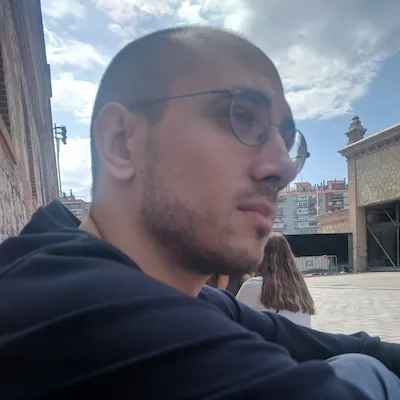
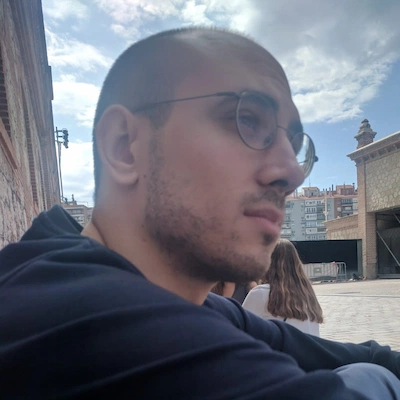
refactor: redesign, quality of image increased and open graph image added

diff --git a/public/dist.css b/public/dist.css
@@ -1,1 +1,1 @@
-/*! tailwindcss v3.2.4 | MIT License | https://tailwindcss.com*/*,:after,:before{border:0 solid #e5e7eb;box-sizing:border-box}:after,:before{--tw-content:""}html{-webkit-text-size-adjust:100%;font-feature-settings:normal;font-family:ui-sans-serif,system-ui,-apple-system,BlinkMacSystemFont,Segoe UI,Roboto,Helvetica Neue,Arial,Noto Sans,sans-serif,Apple Color Emoji,Segoe UI Emoji,Segoe UI Symbol,Noto Color Emoji;line-height:1.5;-moz-tab-size:4;-o-tab-size:4;tab-size:4}body{line-height:inherit;margin:0}hr{border-top-width:1px;color:inherit;height:0}abbr:where([title]){-webkit-text-decoration:underline dotted;text-decoration:underline dotted}h1,h2,h3,h4,h5,h6{font-size:inherit;font-weight:inherit}a{color:inherit;text-decoration:inherit}b,strong{font-weight:bolder}code,kbd,pre,samp{font-family:ui-monospace,SFMono-Regular,Menlo,Monaco,Consolas,Liberation Mono,Courier New,monospace;font-size:1em}small{font-size:80%}sub,sup{font-size:75%;line-height:0;position:relative;vertical-align:baseline}sub{bottom:-.25em}sup{top:-.5em}table{border-collapse:collapse;border-color:inherit;text-indent:0}button,input,optgroup,select,textarea{color:inherit;font-family:inherit;font-size:100%;font-weight:inherit;line-height:inherit;margin:0;padding:0}button,select{text-transform:none}[type=button],[type=reset],[type=submit],button{-webkit-appearance:button;background-color:transparent;background-image:none}:-moz-focusring{outline:auto}:-moz-ui-invalid{box-shadow:none}progress{vertical-align:baseline}::-webkit-inner-spin-button,::-webkit-outer-spin-button{height:auto}[type=search]{-webkit-appearance:textfield;outline-offset:-2px}::-webkit-search-decoration{-webkit-appearance:none}::-webkit-file-upload-button{-webkit-appearance:button;font:inherit}summary{display:list-item}blockquote,dd,dl,figure,h1,h2,h3,h4,h5,h6,hr,p,pre{margin:0}fieldset{margin:0}fieldset,legend{padding:0}menu,ol,ul{list-style:none;margin:0;padding:0}textarea{resize:vertical}input::-moz-placeholder,textarea::-moz-placeholder{color:#9ca3af;opacity:1}input::placeholder,textarea::placeholder{color:#9ca3af;opacity:1}[role=button],button{cursor:pointer}:disabled{cursor:default}audio,canvas,embed,iframe,img,object,svg,video{display:block;vertical-align:middle}img,video{height:auto;max-width:100%}[hidden]{display:none}:root,[data-theme]{background-color:hsla(var(--b1)/var(--tw-bg-opacity,1));color:hsla(var(--bc)/var(--tw-text-opacity,1))}html{-webkit-tap-highlight-color:transparent}:root{--pf:262 80% 40%;--sf:316 70% 40%;--af:175 70% 33%;--in:198 93% 60%;--su:158 64% 52%;--wa:43 96% 56%;--er:0 91% 71%;--inc:198 100% 12%;--suc:158 100% 10%;--wac:43 100% 11%;--erc:0 100% 14%;--rounded-box:1rem;--rounded-btn:0.5rem;--rounded-badge:1.9rem;--animation-btn:0.25s;--animation-input:.2s;--btn-text-case:uppercase;--btn-focus-scale:0.95;--border-btn:1px;--tab-border:1px;--tab-radius:0.5rem;--p:262 80% 50%;--pc:0 0% 100%;--s:316 70% 50%;--sc:0 0% 100%;--a:175 70% 41%;--ac:0 0% 100%;--n:218 18% 12%;--nf:223 17% 8%;--nc:220 13% 69%;--b1:220 18% 20%;--b2:220 17% 17%;--b3:219 18% 15%;--bc:220 13% 69%;color-scheme:dark}html{font-family:Poppins,Helvetica,Arial,system-ui,sans-serif}*,:after,:before{--tw-border-spacing-x:0;--tw-border-spacing-y:0;--tw-translate-x:0;--tw-translate-y:0;--tw-rotate:0;--tw-skew-x:0;--tw-skew-y:0;--tw-scale-x:1;--tw-scale-y:1;--tw-pan-x: ;--tw-pan-y: ;--tw-pinch-zoom: ;--tw-scroll-snap-strictness:proximity;--tw-ordinal: ;--tw-slashed-zero: ;--tw-numeric-figure: ;--tw-numeric-spacing: ;--tw-numeric-fraction: ;--tw-ring-inset: ;--tw-ring-offset-width:0px;--tw-ring-offset-color:#fff;--tw-ring-color:rgba(59,130,246,.5);--tw-ring-offset-shadow:0 0 #0000;--tw-ring-shadow:0 0 #0000;--tw-shadow:0 0 #0000;--tw-shadow-colored:0 0 #0000;--tw-blur: ;--tw-brightness: ;--tw-contrast: ;--tw-grayscale: ;--tw-hue-rotate: ;--tw-invert: ;--tw-saturate: ;--tw-sepia: ;--tw-drop-shadow: ;--tw-backdrop-blur: ;--tw-backdrop-brightness: ;--tw-backdrop-contrast: ;--tw-backdrop-grayscale: ;--tw-backdrop-hue-rotate: ;--tw-backdrop-invert: ;--tw-backdrop-opacity: ;--tw-backdrop-saturate: ;--tw-backdrop-sepia: }::backdrop{--tw-border-spacing-x:0;--tw-border-spacing-y:0;--tw-translate-x:0;--tw-translate-y:0;--tw-rotate:0;--tw-skew-x:0;--tw-skew-y:0;--tw-scale-x:1;--tw-scale-y:1;--tw-pan-x: ;--tw-pan-y: ;--tw-pinch-zoom: ;--tw-scroll-snap-strictness:proximity;--tw-ordinal: ;--tw-slashed-zero: ;--tw-numeric-figure: ;--tw-numeric-spacing: ;--tw-numeric-fraction: ;--tw-ring-inset: ;--tw-ring-offset-width:0px;--tw-ring-offset-color:#fff;--tw-ring-color:rgba(59,130,246,.5);--tw-ring-offset-shadow:0 0 #0000;--tw-ring-shadow:0 0 #0000;--tw-shadow:0 0 #0000;--tw-shadow-colored:0 0 #0000;--tw-blur: ;--tw-brightness: ;--tw-contrast: ;--tw-grayscale: ;--tw-hue-rotate: ;--tw-invert: ;--tw-saturate: ;--tw-sepia: ;--tw-drop-shadow: ;--tw-backdrop-blur: ;--tw-backdrop-brightness: ;--tw-backdrop-contrast: ;--tw-backdrop-grayscale: ;--tw-backdrop-hue-rotate: ;--tw-backdrop-invert: ;--tw-backdrop-opacity: ;--tw-backdrop-saturate: ;--tw-backdrop-sepia: }.container{width:100%}@media (min-width:640px){.container{max-width:640px}}@media (min-width:768px){.container{max-width:768px}}@media (min-width:1024px){.container{max-width:1024px}}@media (min-width:1280px){.container{max-width:1280px}}@media (min-width:1536px){.container{max-width:1536px}}.avatar{display:inline-flex;position:relative}.avatar>div{aspect-ratio:1/1;display:block;overflow:hidden}.avatar img{height:100%;-o-object-fit:cover;object-fit:cover;width:100%}.avatar.placeholder>div{align-items:center;display:flex;justify-content:center}@keyframes spin{0%{transform:rotate(0deg)}to{transform:rotate(1turn)}}.footer{-moz-column-gap:1rem;column-gap:1rem;font-size:.875rem;grid-auto-flow:row;line-height:1.25rem;row-gap:2.5rem;width:100%}.footer,.footer>*{display:grid;place-items:start}.footer>*{gap:.5rem}@media (min-width:48rem){.footer{grid-auto-flow:column}.footer-center{grid-auto-flow:row dense}}.link{cursor:pointer;text-decoration-line:underline}.tooltip{--tooltip-offset:calc(100% + 1px + var(--tooltip-tail, 0px));--tooltip-tail:3px;--tooltip-color:hsl(var(--n));--tooltip-text-color:hsl(var(--nc));--tooltip-tail-offset:calc(100% + 1px - var(--tooltip-tail));display:inline-block;position:relative;text-align:center}.tooltip:before{background-color:var(--tooltip-color);border-radius:.25rem;color:var(--tooltip-text-color);content:attr(data-tip);font-size:.875rem;line-height:1.25rem;max-width:20rem;padding:.25rem .5rem;pointer-events:none;position:absolute;width:-moz-max-content;width:max-content;z-index:1}.tooltip-top:before,.tooltip:before{bottom:var(--tooltip-offset);left:50%;right:auto;top:auto;transform:translateX(-50%)}.tooltip-bottom:before{bottom:auto;left:50%;right:auto;top:var(--tooltip-offset);transform:translateX(-50%)}.avatar-group :where(.avatar){--tw-border-opacity:1;border-color:hsl(var(--b1)/var(--tw-border-opacity));border-radius:9999px;border-width:4px;overflow:hidden}@keyframes button-pop{0%{transform:scale(var(--btn-focus-scale,.95))}40%{transform:scale(1.02)}to{transform:scale(1)}}@keyframes checkmark{0%{background-position-y:5px}50%{background-position-y:-2px}to{background-position-y:0}}.link:focus{outline:2px solid transparent;outline-offset:2px}.link:focus-visible{outline:2px solid currentColor;outline-offset:2px}@keyframes progress-loading{50%{left:107%}}@keyframes radiomark{0%{box-shadow:0 0 0 12px hsl(var(--b1)) inset,0 0 0 12px hsl(var(--b1)) inset}50%{box-shadow:0 0 0 3px hsl(var(--b1)) inset,0 0 0 3px hsl(var(--b1)) inset}to{box-shadow:0 0 0 4px hsl(var(--b1)) inset,0 0 0 4px hsl(var(--b1)) inset}}@keyframes rating-pop{0%{transform:translateY(-.125em)}40%{transform:translateY(-.125em)}to{transform:translateY(0)}}@keyframes toast-pop{0%{opacity:0;transform:scale(.9)}to{opacity:1;transform:scale(1)}}.tooltip:after,.tooltip:before{opacity:0;transition-delay:.1s;transition-duration:.2s;transition-property:color,background-color,border-color,text-decoration-color,fill,stroke,opacity,box-shadow,transform,filter,-webkit-backdrop-filter;transition-property:color,background-color,border-color,text-decoration-color,fill,stroke,opacity,box-shadow,transform,filter,backdrop-filter;transition-property:color,background-color,border-color,text-decoration-color,fill,stroke,opacity,box-shadow,transform,filter,backdrop-filter,-webkit-backdrop-filter;transition-timing-function:cubic-bezier(.4,0,.2,1)}.tooltip:after{border-style:solid;border-width:var(--tooltip-tail,0);content:"";display:block;height:0;position:absolute;width:0}.tooltip.tooltip-open:after,.tooltip.tooltip-open:before,.tooltip:hover:after,.tooltip:hover:before{opacity:1;transition-delay:75ms}.tooltip-top:after,.tooltip:after{border-color:var(--tooltip-color) transparent transparent transparent;bottom:var(--tooltip-tail-offset);left:50%;right:auto;top:auto;transform:translateX(-50%)}.tooltip-bottom:after{border-color:transparent transparent var(--tooltip-color) transparent;bottom:auto;left:50%;right:auto;top:var(--tooltip-tail-offset);transform:translateX(-50%)}.avatar.online:before{background-color:hsl(var(--su)/var(--tw-bg-opacity))}.avatar.offline:before,.avatar.online:before{--tw-bg-opacity:1;border-radius:9999px;box-shadow:0 0 0 2px hsl(var(--b1));content:"";display:block;height:15%;position:absolute;right:7%;top:7%;width:15%;z-index:10}.avatar.offline:before{background-color:hsl(var(--b3,var(--b2))/var(--tw-bg-opacity))}.mx-auto{margin-left:auto;margin-right:auto}.mb-8{margin-bottom:2rem}.mb-4{margin-bottom:1rem}.mb-12{margin-bottom:3rem}.mb-1{margin-bottom:.25rem}.mb-2{margin-bottom:.5rem}.flex{display:flex}.h-auto{height:auto}.h-8{height:2rem}.h-7{height:1.75rem}.w-40{width:10rem}.w-8{width:2rem}.w-7{width:1.75rem}.max-w-2xl{max-width:42rem}.list-disc{list-style-type:disc}.items-center{align-items:center}.gap-8{gap:2rem}.gap-4{gap:1rem}.gap-2{gap:.5rem}.rounded-full{border-radius:9999px}.fill-current{fill:currentColor}.px-6{padding-left:1.5rem;padding-right:1.5rem}.py-8{padding-bottom:2rem;padding-top:2rem}.pl-5{padding-left:1.25rem}.text-lg{font-size:1.125rem;line-height:1.75rem}.text-base{font-size:1rem;line-height:1.5rem}.font-medium{font-weight:500}.underline{text-decoration-line:underline}.subpixel-antialiased{-webkit-font-smoothing:auto;-moz-osx-font-smoothing:auto}@font-face{font-display:swap;font-family:Poppins;font-style:normal;font-weight:400;src:url(poppins-400-normal.woff2) format("woff2")}@font-face{font-display:swap;font-family:Poppins;font-style:normal;font-weight:500;src:url(poppins-500-normal.woff2) format("woff2")}@font-face{font-display:swap;font-family:Poppins;font-style:normal;font-weight:600;src:url(poppins-600-normal.woff2) format("woff2")}.hover\:text-gray-300:hover{--tw-text-opacity:1;color:rgb(209 213 219/var(--tw-text-opacity))}@media (min-width:768px){.md\:px-8{padding-left:2rem;padding-right:2rem}.md\:py-24{padding-bottom:6rem;padding-top:6rem}.md\:text-xl{font-size:1.25rem;line-height:1.75rem}.md\:text-2xl{font-size:1.5rem;line-height:2rem}}
+/*! tailwindcss v3.2.4 | MIT License | https://tailwindcss.com*/*,:after,:before{border:0 solid #e5e7eb;box-sizing:border-box}:after,:before{--tw-content:""}html{-webkit-text-size-adjust:100%;font-feature-settings:normal;font-family:ui-sans-serif,system-ui,-apple-system,BlinkMacSystemFont,Segoe UI,Roboto,Helvetica Neue,Arial,Noto Sans,sans-serif,Apple Color Emoji,Segoe UI Emoji,Segoe UI Symbol,Noto Color Emoji;line-height:1.5;-moz-tab-size:4;-o-tab-size:4;tab-size:4}body{line-height:inherit;margin:0}hr{border-top-width:1px;color:inherit;height:0}abbr:where([title]){-webkit-text-decoration:underline dotted;text-decoration:underline dotted}h1,h2,h3,h4,h5,h6{font-size:inherit;font-weight:inherit}a{color:inherit;text-decoration:inherit}b,strong{font-weight:bolder}code,kbd,pre,samp{font-family:ui-monospace,SFMono-Regular,Menlo,Monaco,Consolas,Liberation Mono,Courier New,monospace;font-size:1em}small{font-size:80%}sub,sup{font-size:75%;line-height:0;position:relative;vertical-align:baseline}sub{bottom:-.25em}sup{top:-.5em}table{border-collapse:collapse;border-color:inherit;text-indent:0}button,input,optgroup,select,textarea{color:inherit;font-family:inherit;font-size:100%;font-weight:inherit;line-height:inherit;margin:0;padding:0}button,select{text-transform:none}[type=button],[type=reset],[type=submit],button{-webkit-appearance:button;background-color:transparent;background-image:none}:-moz-focusring{outline:auto}:-moz-ui-invalid{box-shadow:none}progress{vertical-align:baseline}::-webkit-inner-spin-button,::-webkit-outer-spin-button{height:auto}[type=search]{-webkit-appearance:textfield;outline-offset:-2px}::-webkit-search-decoration{-webkit-appearance:none}::-webkit-file-upload-button{-webkit-appearance:button;font:inherit}summary{display:list-item}blockquote,dd,dl,figure,h1,h2,h3,h4,h5,h6,hr,p,pre{margin:0}fieldset{margin:0}fieldset,legend{padding:0}menu,ol,ul{list-style:none;margin:0;padding:0}textarea{resize:vertical}input::-moz-placeholder,textarea::-moz-placeholder{color:#9ca3af;opacity:1}input::placeholder,textarea::placeholder{color:#9ca3af;opacity:1}[role=button],button{cursor:pointer}:disabled{cursor:default}audio,canvas,embed,iframe,img,object,svg,video{display:block;vertical-align:middle}img,video{height:auto;max-width:100%}[hidden]{display:none}:root,[data-theme]{background-color:hsla(var(--b1)/var(--tw-bg-opacity,1));color:hsla(var(--bc)/var(--tw-text-opacity,1))}html{-webkit-tap-highlight-color:transparent}:root{--pf:262 80% 40%;--sf:316 70% 40%;--af:175 70% 33%;--in:198 93% 60%;--su:158 64% 52%;--wa:43 96% 56%;--er:0 91% 71%;--inc:198 100% 12%;--suc:158 100% 10%;--wac:43 100% 11%;--erc:0 100% 14%;--rounded-box:1rem;--rounded-btn:0.5rem;--rounded-badge:1.9rem;--animation-btn:0.25s;--animation-input:.2s;--btn-text-case:uppercase;--btn-focus-scale:0.95;--border-btn:1px;--tab-border:1px;--tab-radius:0.5rem;--p:262 80% 50%;--pc:0 0% 100%;--s:316 70% 50%;--sc:0 0% 100%;--a:175 70% 41%;--ac:0 0% 100%;--n:218 18% 12%;--nf:223 17% 8%;--nc:220 13% 69%;--b1:220 18% 20%;--b2:220 17% 17%;--b3:219 18% 15%;--bc:220 13% 69%;color-scheme:dark}html{font-family:Poppins,Helvetica,Arial,system-ui,sans-serif}*,:after,:before{--tw-border-spacing-x:0;--tw-border-spacing-y:0;--tw-translate-x:0;--tw-translate-y:0;--tw-rotate:0;--tw-skew-x:0;--tw-skew-y:0;--tw-scale-x:1;--tw-scale-y:1;--tw-pan-x: ;--tw-pan-y: ;--tw-pinch-zoom: ;--tw-scroll-snap-strictness:proximity;--tw-ordinal: ;--tw-slashed-zero: ;--tw-numeric-figure: ;--tw-numeric-spacing: ;--tw-numeric-fraction: ;--tw-ring-inset: ;--tw-ring-offset-width:0px;--tw-ring-offset-color:#fff;--tw-ring-color:rgba(59,130,246,.5);--tw-ring-offset-shadow:0 0 #0000;--tw-ring-shadow:0 0 #0000;--tw-shadow:0 0 #0000;--tw-shadow-colored:0 0 #0000;--tw-blur: ;--tw-brightness: ;--tw-contrast: ;--tw-grayscale: ;--tw-hue-rotate: ;--tw-invert: ;--tw-saturate: ;--tw-sepia: ;--tw-drop-shadow: ;--tw-backdrop-blur: ;--tw-backdrop-brightness: ;--tw-backdrop-contrast: ;--tw-backdrop-grayscale: ;--tw-backdrop-hue-rotate: ;--tw-backdrop-invert: ;--tw-backdrop-opacity: ;--tw-backdrop-saturate: ;--tw-backdrop-sepia: }::backdrop{--tw-border-spacing-x:0;--tw-border-spacing-y:0;--tw-translate-x:0;--tw-translate-y:0;--tw-rotate:0;--tw-skew-x:0;--tw-skew-y:0;--tw-scale-x:1;--tw-scale-y:1;--tw-pan-x: ;--tw-pan-y: ;--tw-pinch-zoom: ;--tw-scroll-snap-strictness:proximity;--tw-ordinal: ;--tw-slashed-zero: ;--tw-numeric-figure: ;--tw-numeric-spacing: ;--tw-numeric-fraction: ;--tw-ring-inset: ;--tw-ring-offset-width:0px;--tw-ring-offset-color:#fff;--tw-ring-color:rgba(59,130,246,.5);--tw-ring-offset-shadow:0 0 #0000;--tw-ring-shadow:0 0 #0000;--tw-shadow:0 0 #0000;--tw-shadow-colored:0 0 #0000;--tw-blur: ;--tw-brightness: ;--tw-contrast: ;--tw-grayscale: ;--tw-hue-rotate: ;--tw-invert: ;--tw-saturate: ;--tw-sepia: ;--tw-drop-shadow: ;--tw-backdrop-blur: ;--tw-backdrop-brightness: ;--tw-backdrop-contrast: ;--tw-backdrop-grayscale: ;--tw-backdrop-hue-rotate: ;--tw-backdrop-invert: ;--tw-backdrop-opacity: ;--tw-backdrop-saturate: ;--tw-backdrop-sepia: }.container{width:100%}@media (min-width:640px){.container{max-width:640px}}@media (min-width:768px){.container{max-width:768px}}@media (min-width:1024px){.container{max-width:1024px}}@media (min-width:1280px){.container{max-width:1280px}}@media (min-width:1536px){.container{max-width:1536px}}.avatar{display:inline-flex;position:relative}.avatar>div{aspect-ratio:1/1;display:block;overflow:hidden}.avatar img{height:100%;-o-object-fit:cover;object-fit:cover;width:100%}.avatar.placeholder>div{align-items:center;display:flex;justify-content:center}@keyframes spin{0%{transform:rotate(0deg)}to{transform:rotate(1turn)}}.footer{-moz-column-gap:1rem;column-gap:1rem;font-size:.875rem;grid-auto-flow:row;line-height:1.25rem;row-gap:2.5rem;width:100%}.footer,.footer>*{display:grid;place-items:start}.footer>*{gap:.5rem}@media (min-width:48rem){.footer{grid-auto-flow:column}.footer-center{grid-auto-flow:row dense}}.link{cursor:pointer;text-decoration-line:underline}.tooltip{--tooltip-offset:calc(100% + 1px + var(--tooltip-tail, 0px));--tooltip-tail:3px;--tooltip-color:hsl(var(--n));--tooltip-text-color:hsl(var(--nc));--tooltip-tail-offset:calc(100% + 1px - var(--tooltip-tail));display:inline-block;position:relative;text-align:center}.tooltip:before{background-color:var(--tooltip-color);border-radius:.25rem;color:var(--tooltip-text-color);content:attr(data-tip);font-size:.875rem;line-height:1.25rem;max-width:20rem;padding:.25rem .5rem;pointer-events:none;position:absolute;width:-moz-max-content;width:max-content;z-index:1}.tooltip-top:before,.tooltip:before{bottom:var(--tooltip-offset);left:50%;right:auto;top:auto;transform:translateX(-50%)}.tooltip-bottom:before{bottom:auto;left:50%;right:auto;top:var(--tooltip-offset);transform:translateX(-50%)}.avatar-group :where(.avatar){--tw-border-opacity:1;border-color:hsl(var(--b1)/var(--tw-border-opacity));border-radius:9999px;border-width:4px;overflow:hidden}@keyframes button-pop{0%{transform:scale(var(--btn-focus-scale,.95))}40%{transform:scale(1.02)}to{transform:scale(1)}}@keyframes checkmark{0%{background-position-y:5px}50%{background-position-y:-2px}to{background-position-y:0}}.link:focus{outline:2px solid transparent;outline-offset:2px}.link:focus-visible{outline:2px solid currentColor;outline-offset:2px}@keyframes progress-loading{50%{left:107%}}@keyframes radiomark{0%{box-shadow:0 0 0 12px hsl(var(--b1)) inset,0 0 0 12px hsl(var(--b1)) inset}50%{box-shadow:0 0 0 3px hsl(var(--b1)) inset,0 0 0 3px hsl(var(--b1)) inset}to{box-shadow:0 0 0 4px hsl(var(--b1)) inset,0 0 0 4px hsl(var(--b1)) inset}}@keyframes rating-pop{0%{transform:translateY(-.125em)}40%{transform:translateY(-.125em)}to{transform:translateY(0)}}@keyframes toast-pop{0%{opacity:0;transform:scale(.9)}to{opacity:1;transform:scale(1)}}.tooltip:after,.tooltip:before{opacity:0;transition-delay:.1s;transition-duration:.2s;transition-property:color,background-color,border-color,text-decoration-color,fill,stroke,opacity,box-shadow,transform,filter,-webkit-backdrop-filter;transition-property:color,background-color,border-color,text-decoration-color,fill,stroke,opacity,box-shadow,transform,filter,backdrop-filter;transition-property:color,background-color,border-color,text-decoration-color,fill,stroke,opacity,box-shadow,transform,filter,backdrop-filter,-webkit-backdrop-filter;transition-timing-function:cubic-bezier(.4,0,.2,1)}.tooltip:after{border-style:solid;border-width:var(--tooltip-tail,0);content:"";display:block;height:0;position:absolute;width:0}.tooltip.tooltip-open:after,.tooltip.tooltip-open:before,.tooltip:hover:after,.tooltip:hover:before{opacity:1;transition-delay:75ms}.tooltip-top:after,.tooltip:after{border-color:var(--tooltip-color) transparent transparent transparent;bottom:var(--tooltip-tail-offset);left:50%;right:auto;top:auto;transform:translateX(-50%)}.tooltip-bottom:after{border-color:transparent transparent var(--tooltip-color) transparent;bottom:auto;left:50%;right:auto;top:var(--tooltip-tail-offset);transform:translateX(-50%)}.avatar.online:before{background-color:hsl(var(--su)/var(--tw-bg-opacity))}.avatar.offline:before,.avatar.online:before{--tw-bg-opacity:1;border-radius:9999px;box-shadow:0 0 0 2px hsl(var(--b1));content:"";display:block;height:15%;position:absolute;right:7%;top:7%;width:15%;z-index:10}.avatar.offline:before{background-color:hsl(var(--b3,var(--b2))/var(--tw-bg-opacity))}.mx-auto{margin-left:auto;margin-right:auto}.mb-1{margin-bottom:.25rem}.flex{display:flex}.h-6{height:1.5rem}.min-h-screen{min-height:100vh}.w-56{width:14rem}.max-w-6xl{max-width:72rem}.flex-1{flex:1 1 0%}.basis-full{flex-basis:100%}.list-disc{list-style-type:disc}.flex-row{flex-direction:row}.flex-col{flex-direction:column}.flex-wrap{flex-wrap:wrap}.items-end{align-items:flex-end}.items-center{align-items:center}.items-stretch{align-items:stretch}.justify-center{justify-content:center}.gap-8{gap:2rem}.gap-6{gap:1.5rem}.rounded-full{border-radius:9999px}.fill-current{fill:currentColor}.p-4{padding:1rem}.p-6{padding:1.5rem}.pl-4{padding-left:1rem}.text-xl{font-size:1.25rem;line-height:1.75rem}.font-semibold{font-weight:600}.font-medium{font-weight:500}.underline{text-decoration-line:underline}.subpixel-antialiased{-webkit-font-smoothing:auto;-moz-osx-font-smoothing:auto}@font-face{font-display:swap;font-family:Poppins;font-style:normal;font-weight:400;src:url(poppins-400-normal.woff2) format("woff2")}@font-face{font-display:swap;font-family:Poppins;font-style:normal;font-weight:500;src:url(poppins-500-normal.woff2) format("woff2")}@font-face{font-display:swap;font-family:Poppins;font-style:normal;font-weight:600;src:url(poppins-600-normal.woff2) format("woff2")}.hover\:text-gray-300:hover{--tw-text-opacity:1;color:rgb(209 213 219/var(--tw-text-opacity))}.hover\:no-underline:hover{text-decoration-line:none}@media (min-width:768px){.md\:text-2xl{font-size:1.5rem;line-height:2rem}}@media (min-width:1024px){.lg\:justify-center{justify-content:center}}

diff --git a/index.html b/index.html
@@ -4,85 +4,117 @@
     <meta charset="UTF-8" />
     <meta http-equiv="X-UA-Compatible" content="IE=edge" />
     <meta name="viewport" content="width=device-width, initial-scale=1.0" />
-    <meta name="description" content="I'm a spanish software engineer and I love working with NodeJS and its ecosystem tools." />
+    <meta name="description" content="I'm a spanish software engineer living in Madrid. I love working with NodeJS, its ecosystem tools and bootstrapping SaaS products." />
     <meta property="og:type" content="website" />
-    <meta property="og:title" content="Rafael Gilete - Software Engineer living in Spain." />
-    <meta property="og:description" content="I'm a spanish software engineer and I love working with NodeJS and its ecosystem tools." />
+    <meta property="og:title" content="Rafael Gilete - Senior Software Engineer living in Spain." />
+    <meta
+      property="og:description"
+      content="I'm a spanish software engineer living in Madrid. I love working with NodeJS, its ecosystem tools and bootstrapping SaaS products."
+    />
     <meta property="og:url" content="https://gilete.net" />
     <meta property="og:site_name" content="gilete.net" />
-    <meta name="twitter:title" content="Rafael Gilete - Software Engineer living in Spain." />
-    <meta name="twitter:description" content="I'm a spanish software engineer and I love working with NodeJS and its ecosystem tools." />
+    <meta property="og:image" content="https://gilete.net/public/og-pic.webp" />
+    <meta name="twitter:title" content="Rafael Gilete - Senior Software Engineer living in Spain." />
+    <meta
+      name="twitter:description"
+      content="I'm a spanish software engineer living in Madrid. I love working with NodeJS, its ecosystem tools and bootstrapping SaaS products."
+    />
     <meta name="twitter:url" content="https://gilete.net" />
-    <meta name="twitter:card" content="summary" />
+    <meta name="twitter:card" content="summary_large_image" />
     <meta name="twitter:site" content="@rafaelgilete" />
     <meta name="twitter:creator" content="@rafaelgilete" />
+    <meta name="twitter:image" content="https://gilete.net/public/og-pic.webp" />
     <meta name="twitter:image:alt" content="https://gilete.net" />
     <link rel="stylesheet" href="./public/dist.css" />
     <link rel="apple-touch-icon" sizes="112x112" href="./public/favicon-112x112.png" />
     <link rel="icon" type="image/png" sizes="56x56" href="./public/favicon-56x56.png" />
     <link rel="icon" type="image/png" sizes="28x28" href="./public/favicon-28x28.png" />
-    <title>Rafael Gilete - Software Engineer living in Spain</title>
+    <title>Rafael Gilete - Senior Software Engineer living in Spain</title>
   </head>
-  <body class="container mx-auto max-w-2xl px-6 py-8 text-lg subpixel-antialiased md:text-xl md:px-8 md:py-24">
-    <header>
-      <div class="avatar">
-        <div class="h-auto mb-8 rounded-full w-40">
-          <img src="./public/rafael-gilete-pic.webp" />
+  <body class="subpixel-antialiased">
+    <main class="container mx-auto max-w-6xl flex flex-row flex-wrap items-stretch justify-center min-h-screen">
+      <div class="flex flex-1 flex-col gap-8 items-center justify-center p-4">
+        <div class="avatar">
+          <div class="rounded-full w-56">
+            <img src="./public/rafael-gilete-pic.webp" />
+          </div>
+        </div>
+        <div class="flex gap-8">
+          <a
+            class="hover:text-gray-300 tooltip tooltip-bottom"
+            data-tip="rafaelgilete"
+            href="https://twitter.com/rafaelgilete"
+            target="_blank"
+            rel="noopener noreferrer nofollow"
+          >
+            <svg class="fill-current h-6" xmlns="http://www.w3.org/2000/svg" viewBox="0 0 512 512">
+              <path
+                d="M459.37 151.716c.325 4.548.325 9.097.325 13.645 0 138.72-105.583 298.558-298.558 298.558-59.452 0-114.68-17.219-161.137-47.106 8.447.974 16.568 1.299 25.34 1.299 49.055 0 94.213-16.568 130.274-44.832-46.132-.975-84.792-31.188-98.112-72.772 6.498.974 12.995 1.624 19.818 1.624 9.421 0 18.843-1.3 27.614-3.573-48.081-9.747-84.143-51.98-84.143-102.985v-1.299c13.969 7.797 30.214 12.67 47.431 13.319-28.264-18.843-46.781-51.005-46.781-87.391 0-19.492 5.197-37.36 14.294-52.954 51.655 63.675 129.3 105.258 216.365 109.807-1.624-7.797-2.599-15.918-2.599-24.04 0-57.828 46.782-104.934 104.934-104.934 30.213 0 57.502 12.67 76.67 33.137 23.715-4.548 46.456-13.32 66.599-25.34-7.798 24.366-24.366 44.833-46.132 57.827 21.117-2.273 41.584-8.122 60.426-16.243-14.292 20.791-32.161 39.308-52.628 54.253z"
+              />
+            </svg>
+          </a>
+          <a
+            class="hover:text-gray-300 tooltip tooltip-bottom"
+            data-tip="rafael-gilete-mogena"
+            href="https://www.linkedin.com/in/rafael-gilete-mogena/"
+            target="_blank"
+            rel="noopener noreferrer nofollow"
+          >
+            <svg class="fill-current h-6" xmlns="http://www.w3.org/2000/svg" viewBox="0 0 448 512">
+              <path
+                d="M100.28 448H7.4V148.9h92.88zM53.79 108.1C24.09 108.1 0 83.5 0 53.8a53.79 53.79 0 0 1 107.58 0c0 29.7-24.1 54.3-53.79 54.3zM447.9 448h-92.68V302.4c0-34.7-.7-79.2-48.29-79.2-48.29 0-55.69 37.7-55.69 76.7V448h-92.78V148.9h89.08v40.8h1.3c12.4-23.5 42.69-48.3 87.88-48.3 94 0 111.28 61.9 111.28 142.3V448z"
+              />
+            </svg>
+          </a>
+          <a
+            class="hover:text-gray-300 tooltip tooltip-bottom"
+            data-tip="rafaelgilete"
+            href="https://github.com/rafaelgilete/"
+            target="_blank"
+            rel="noopener noreferrer nofollow"
+          >
+            <svg class="fill-current h-6" xmlns="http://www.w3.org/2000/svg" viewBox="0 0 496 512">
+              <path
+                d="M165.9 397.4c0 2-2.3 3.6-5.2 3.6-3.3.3-5.6-1.3-5.6-3.6 0-2 2.3-3.6 5.2-3.6 3-.3 5.6 1.3 5.6 3.6zm-31.1-4.5c-.7 2 1.3 4.3 4.3 4.9 2.6 1 5.6 0 6.2-2s-1.3-4.3-4.3-5.2c-2.6-.7-5.5.3-6.2 2.3zm44.2-1.7c-2.9.7-4.9 2.6-4.6 4.9.3 2 2.9 3.3 5.9 2.6 2.9-.7 4.9-2.6 4.6-4.6-.3-1.9-3-3.2-5.9-2.9zM244.8 8C106.1 8 0 113.3 0 252c0 110.9 69.8 205.8 169.5 239.2 12.8 2.3 17.3-5.6 17.3-12.1 0-6.2-.3-40.4-.3-61.4 0 0-70 15-84.7-29.8 0 0-11.4-29.1-27.8-36.6 0 0-22.9-15.7 1.6-15.4 0 0 24.9 2 38.6 25.8 21.9 38.6 58.6 27.5 72.9 20.9 2.3-16 8.8-27.1 16-33.7-55.9-6.2-112.3-14.3-112.3-110.5 0-27.5 7.6-41.3 23.6-58.9-2.6-6.5-11.1-33.3 2.6-67.9 20.9-6.5 69 27 69 27 20-5.6 41.5-8.5 62.8-8.5s42.8 2.9 62.8 8.5c0 0 48.1-33.6 69-27 13.7 34.7 5.2 61.4 2.6 67.9 16 17.7 25.8 31.5 25.8 58.9 0 96.5-58.9 104.2-114.8 110.5 9.2 7.9 17 22.9 17 46.4 0 33.7-.3 75.4-.3 83.6 0 6.5 4.6 14.4 17.3 12.1C428.2 457.8 496 362.9 496 252 496 113.3 383.5 8 244.8 8zM97.2 352.9c-1.3 1-1 3.3.7 5.2 1.6 1.6 3.9 2.3 5.2 1 1.3-1 1-3.3-.7-5.2-1.6-1.6-3.9-2.3-5.2-1zm-10.8-8.1c-.7 1.3.3 2.9 2.3 3.9 1.6 1 3.6.7 4.3-.7.7-1.3-.3-2.9-2.3-3.9-2-.6-3.6-.3-4.3.7zm32.4 35.6c-1.6 1.3-1 4.3 1.3 6.2 2.3 2.3 5.2 2.6 6.5 1 1.3-1.3.7-4.3-1.3-6.2-2.2-2.3-5.2-2.6-6.5-1zm-11.4-14.7c-1.6 1-1.6 3.6 0 5.9 1.6 2.3 4.3 3.3 5.6 2.3 1.6-1.3 1.6-3.9 0-6.2-1.4-2.3-4-3.3-5.6-2z"
+              />
+            </svg>
+          </a>
+          <a
+            class="hover:text-gray-300 tooltip tooltip-bottom"
+            data-tip="rafaelgilete"
+            href="https://www.twitch.tv/rafaelgilete"
+            target="_blank"
+            rel="noopener noreferrer nofollow"
+          >
+            <svg class="fill-current h-6" xmlns="http://www.w3.org/2000/svg" viewBox="0 0 512 512">
+              <path
+                d="M391.17,103.47H352.54v109.7h38.63ZM285,103H246.37V212.75H285ZM120.83,0,24.31,91.42V420.58H140.14V512l96.53-91.42h77.25L487.69,256V0ZM449.07,237.75l-77.22,73.12H294.61l-67.6,64v-64H140.14V36.58H449.07Z"
+              />
+            </svg>
+          </a>
+          <a class="hover:text-gray-300 tooltip tooltip-bottom" data-tip="rafael@gilete.net" href="mailto:rafael@gilete.net" rel="noopener noreferrer nofollow">
+            <svg class="fill-current h-6" xmlns="http://www.w3.org/2000/svg" viewBox="0 0 512 512">
+              <path
+                d="M48 64C21.5 64 0 85.5 0 112c0 15.1 7.1 29.3 19.2 38.4L236.8 313.6c11.4 8.5 27 8.5 38.4 0L492.8 150.4c12.1-9.1 19.2-23.3 19.2-38.4c0-26.5-21.5-48-48-48H48zM0 176V384c0 35.3 28.7 64 64 64H448c35.3 0 64-28.7 64-64V176L294.4 339.2c-22.8 17.1-54 17.1-76.8 0L0 176z"
+              />
+            </svg>
+          </a>
         </div>
       </div>
-      <h1 class="font-medium mb-4 md:text-2xl">Hola, I'm Rafael!</h1>
-    </header>
-    <main>
-      <section class="mb-12">
-        <h2 class="mb-1">A spanish software engineer.</h2>
-        <p>I like bootstrapping SaaS products.</p>
-      </section>
-      <section class="mb-12">
-        <h2 class="font-medium mb-4 md:text-2xl">Working on</h2>
-        <ul class="list-disc pl-5">
-          <li class="mb-2">
-            Bootstrapping
-            <a class="underline" href="https://dappjobs.net" target="_blank" rel="noopener noreferrer">dappjobs</a>, a reverse blockchain job board.
-          </li>
+      <div class="flex flex-2 flex-col gap-6 p-6 lg:justify-center">
+        <h1 class="text-xl md:text-2xl"><span class="font-semibold">I'm Rafael</span>, a spanish software engineer living in Madrid.</h1>
+        <p>I love working with NodeJS, its ecosystem tools and bootstrapping SaaS products.</p>
+        <h2 class="font-medium text-xl">My current projects:</h2>
+        <ul class="list-disc pl-4">
+          <li><a class="underline hover:no-underline" href="https://dappjobs.net" rel="noopener noreferrer">dappjobs</a>, a reverse blockchain job board</li>
+          <li>A still-secret project on monetizing podcasts</li>
         </ul>
-      </section>
-      <section class="mb-12">
-        <h2 class="font-medium mb-4 md:text-2xl">Contact me</h2>
-        <div class="flex gap-8">
-          <div class="flex gap-4">
-            <a
-              class="flex gap-2 items-center hover:text-gray-300 tooltip tooltip-bottom"
-              data-tip="@rafaelgilete"
-              href="https://twitter.com/rafaelgilete"
-              target="_blank"
-              rel="noopener noreferrer nofollow"
-            >
-              <svg class="h-8 fill-current w-8" xmlns="http://www.w3.org/2000/svg" viewBox="0 0 24 24">
-                <path
-                  d="M19.633 7.997c.013.175.013.349.013.523 0 5.325-4.053 11.461-11.46 11.461-2.282 0-4.402-.661-6.186-1.809.324.037.636.05.973.05a8.07 8.07 0 0 0 5.001-1.721 4.036 4.036 0 0 1-3.767-2.793c.249.037.499.062.761.062.361 0 .724-.05 1.061-.137a4.027 4.027 0 0 1-3.23-3.953v-.05c.537.299 1.16.486 1.82.511a4.022 4.022 0 0 1-1.796-3.354c0-.748.199-1.434.548-2.032a11.457 11.457 0 0 0 8.306 4.215c-.062-.3-.1-.611-.1-.923a4.026 4.026 0 0 1 4.028-4.028c1.16 0 2.207.486 2.943 1.272a7.957 7.957 0 0 0 2.556-.973 4.02 4.02 0 0 1-1.771 2.22 8.073 8.073 0 0 0 2.319-.624 8.645 8.645 0 0 1-2.019 2.083z"
-                ></path>
-              </svg>
-            </a>
-          </div>
-          <div class="flex gap-4">
-            <a
-              class="flex gap-2 items-center hover:text-gray-300 tooltip tooltip-bottom"
-              data-tip="rafael@gilete.net"
-              href="mailto:rafael@gilete.net"
-              rel="noopener noreferrer"
-            >
-              <svg class="h-7 fill-current w-7" xmlns="http://www.w3.org/2000/svg" viewBox="0 0 512 512">
-                <path
-                  d="M48 64C21.5 64 0 85.5 0 112c0 15.1 7.1 29.3 19.2 38.4L236.8 313.6c11.4 8.5 27 8.5 38.4 0L492.8 150.4c12.1-9.1 19.2-23.3 19.2-38.4c0-26.5-21.5-48-48-48H48zM0 176V384c0 35.3 28.7 64 64 64H448c35.3 0 64-28.7 64-64V176L294.4 339.2c-22.8 17.1-54 17.1-76.8 0L0 176z"
-                />
-              </svg>
-            </a>
-          </div>
-        </div>
-      </section>
+      </div>
+      <div class="basis-full flex flex-row flex-wrap items-end justify-center p-4">
+        <p class="mb-1">© 2023 - Made with ❤ from Spain</p>
+      </div>
     </main>
-    <footer class="text-base">
-      <p class="mb-1">© 2023</p>
+    <footer>
       <script defer data-domain="gilete.net" src="https://plausible.gilete.net/js/script.js"></script>
     </footer>
   </body>
